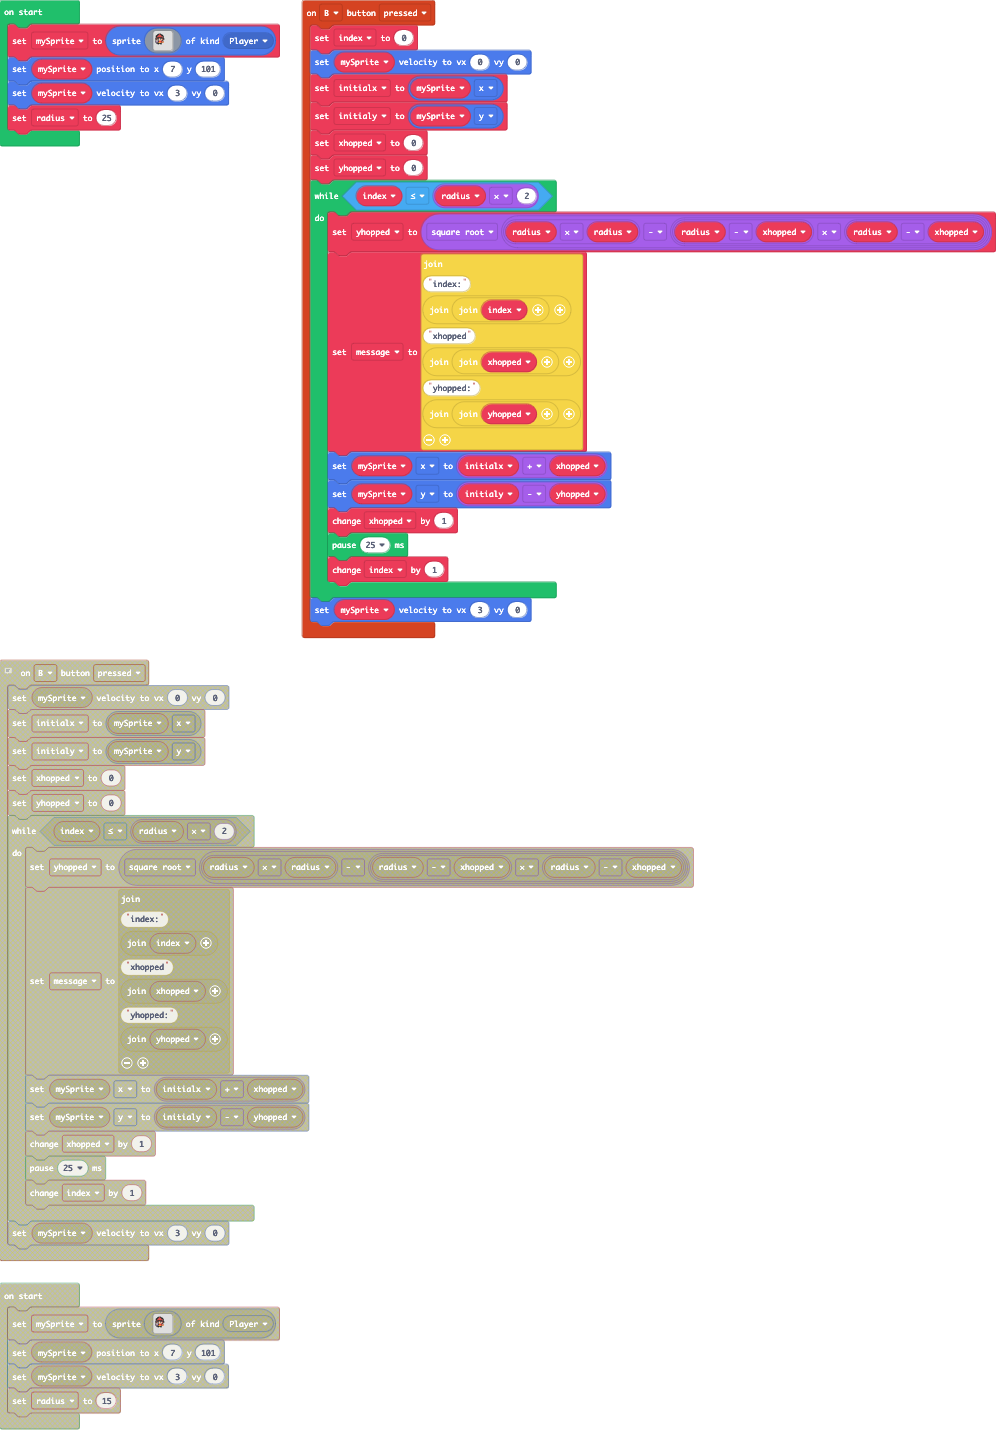
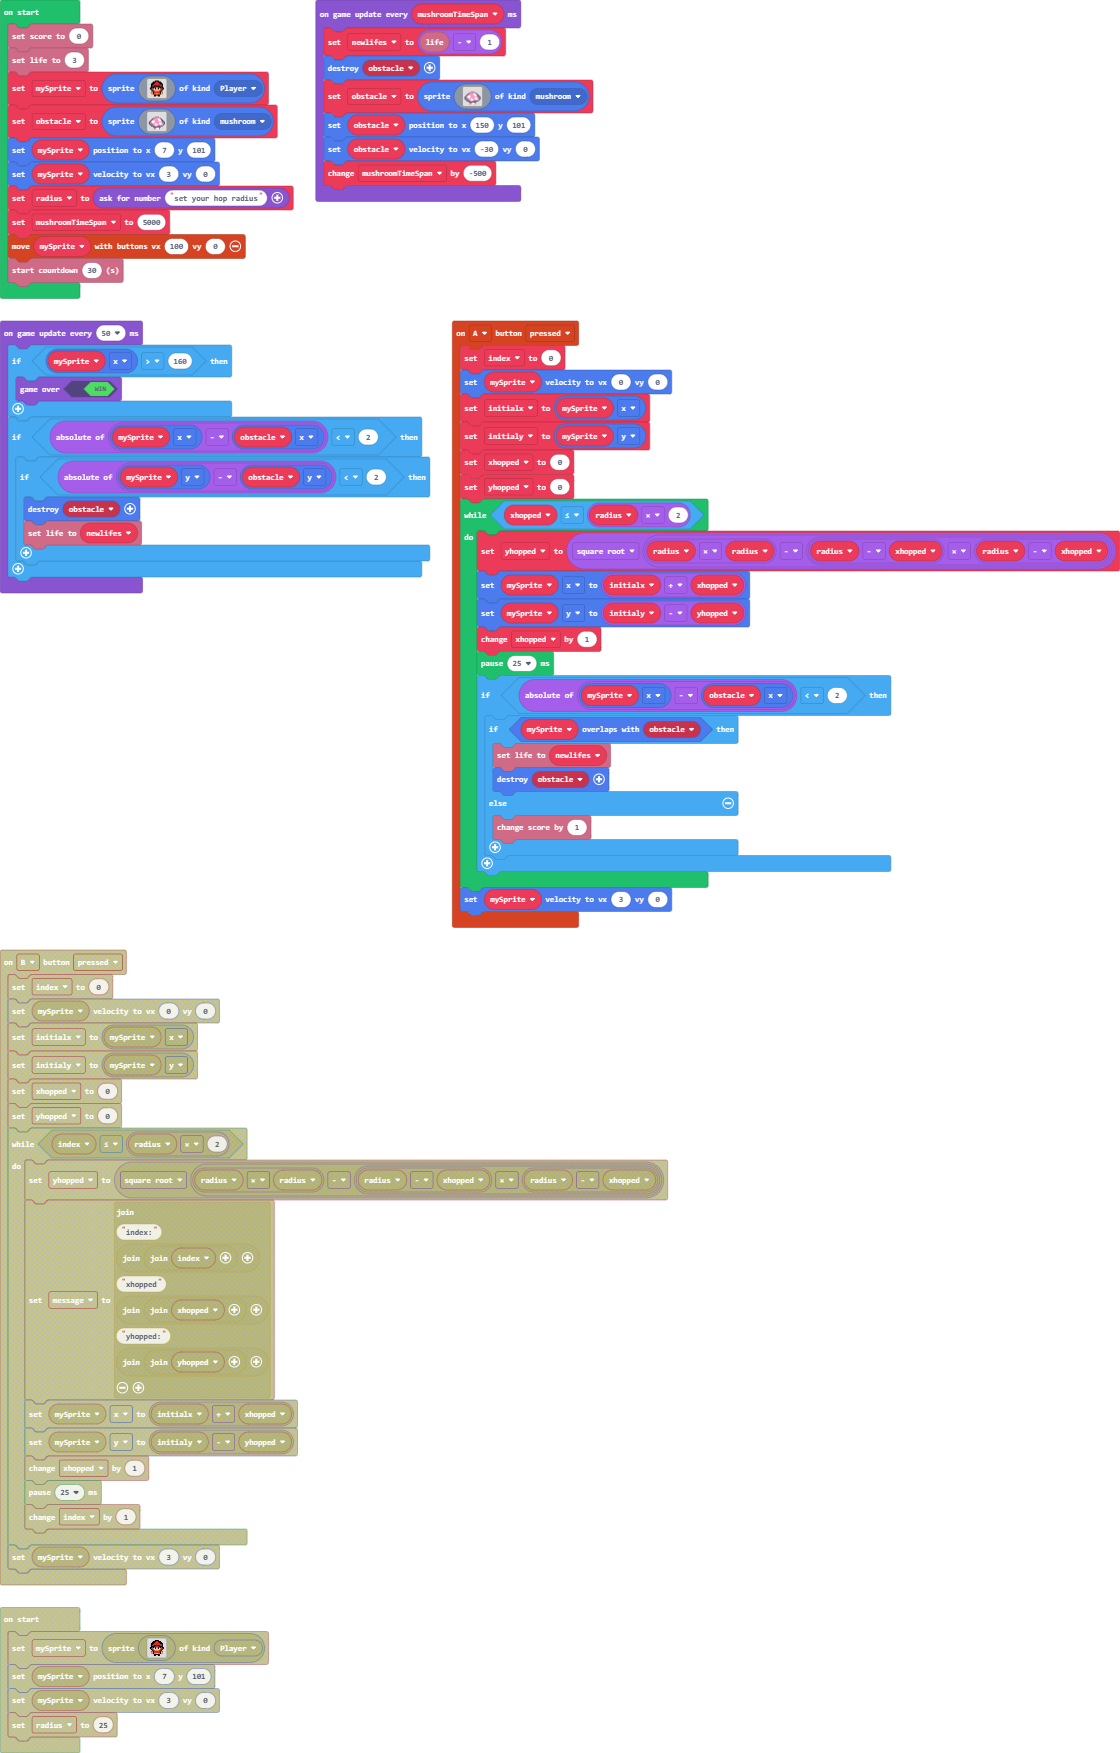
lots of changes to add control, scoring

diff --git a/main.ts b/main.ts
@@ -1,30 +1,99 @@
-controller.B.onEvent(ControllerButtonEvent.Pressed, function () {
+namespace SpriteKind {
+    export const mushroom = SpriteKind.create()
+}
+controller.A.onEvent(ControllerButtonEvent.Pressed, function () {
     index = 0
     mySprite.setVelocity(0, 0)
     initialx = mySprite.x
     initialy = mySprite.y
     xhopped = 0
     yhopped = 0
-    while (index <= radius * 2) {
+    while (xhopped <= radius * 2) {
         yhopped = Math.sqrt(radius * radius - (radius - xhopped) * (radius - xhopped))
-        message = "index:" + ("" + index) + "xhopped" + ("" + xhopped) + "yhopped:" + ("" + yhopped)
         mySprite.x = initialx + xhopped
         mySprite.y = initialy - yhopped
         xhopped += 1
         pause(25)
-        index += 1
+        if (Math.abs(mySprite.x - obstacle.x) < 2) {
+            if (mySprite.overlapsWith(obstacle)) {
+                info.setLife(newlifes)
+                sprites.destroy(obstacle)
+            } else {
+                info.changeScoreBy(1)
+            }
+        }
     }
     mySprite.setVelocity(3, 0)
 })
-let message = ""
+let newlifes = 0
 let yhopped = 0
 let xhopped = 0
 let initialy = 0
 let initialx = 0
 let index = 0
 let radius = 0
+let obstacle: Sprite = null
 let mySprite: Sprite = null
+info.setScore(0)
+info.setLife(3)
 mySprite = sprites.create(assets.image`mysprite`, SpriteKind.Player)
+obstacle = sprites.create(img`
+    . . . . . . . . . . . . . . . . 
+    . . . . . . . . . . . . . . . . 
+    . . . . . . . . . . . . . . . . 
+    . . . . . . b b b b . . . . . . 
+    . . . . b b 3 3 3 3 b b . . . . 
+    . . . c b 3 3 3 3 1 1 b c . . . 
+    . . c b 3 3 3 3 3 1 1 1 b c . . 
+    . c b 1 1 1 3 3 3 3 1 1 3 c c . 
+    c b d 1 1 1 3 3 3 3 3 3 3 b b c 
+    c b b d 1 3 3 3 3 3 1 1 1 b b c 
+    c b b b 3 3 1 1 3 3 1 1 d d b c 
+    . c b b b d d 1 1 3 b d d d c . 
+    . . c c b b d d b b b b c c . . 
+    . . . . c c c c c c c c . . . . 
+    . . . . . b b d 1 1 b . . . . . 
+    . . . . . b d d 1 1 b . . . . . 
+    `, SpriteKind.mushroom)
 mySprite.setPosition(7, 101)
 mySprite.setVelocity(3, 0)
-radius = 25
+radius = game.askForNumber("set your hop radius")
+let mushroomTimeSpan = 5000
+controller.moveSprite(mySprite, 100, 0)
+info.startCountdown(30)
+game.onUpdateInterval(50, function () {
+    if (mySprite.x > 160) {
+        game.gameOver(true)
+    }
+    if (Math.abs(mySprite.x - obstacle.x) < 2) {
+        if (Math.abs(mySprite.y - obstacle.y) < 2) {
+            sprites.destroy(obstacle)
+            info.setLife(newlifes)
+        }
+    }
+})
+game.onUpdateInterval(mushroomTimeSpan, function () {
+    newlifes = info.life() - 1
+    sprites.destroy(obstacle)
+    obstacle = sprites.create(img`
+        . . . . . . . . . . . . . . . . 
+        . . . . . . . . . . . . . . . . 
+        . . . . . . . . . . . . . . . . 
+        . . . . . . b b b b . . . . . . 
+        . . . . b b 3 3 3 3 b b . . . . 
+        . . . c b 3 3 3 3 1 1 b c . . . 
+        . . c b 3 3 3 3 3 1 1 1 b c . . 
+        . c b 1 1 1 3 3 3 3 1 1 3 c c . 
+        c b d 1 1 1 3 3 3 3 3 3 3 b b c 
+        c b b d 1 3 3 3 3 3 1 1 1 b b c 
+        c b b b 3 3 1 1 3 3 1 1 d d b c 
+        . c b b b d d 1 1 3 b d d d c . 
+        . . c c b b d d b b b b c c . . 
+        . . . . c c c c c c c c . . . . 
+        . . . . . b b d 1 1 b . . . . . 
+        . . . . . b d d 1 1 b . . . . . 
+        `, SpriteKind.mushroom)
+    obstacle.setPosition(150, 101)
+    obstacle.setVelocity(-30, 0)
+    mushroomTimeSpan += -500
+})

diff --git a/images.g.ts b/images.g.ts
@@ -5,30 +5,22 @@ namespace myImages {
         switch(helpers.stringTrim(name)) {
             case "?enIdZkhNrz;G5jwC!U}":
             case "mysprite":return img`
-........................
-.....ffff...............
-...fff22fff.............
-..fff2222fff............
-.fffeeeeeefff...........
-.ffe222222eef...........
-.fe2ffffff2ef...........
-.ffffeeeeffff...........
-ffefbf44fbfeff..........
-fee41fddf14eef..........
-.ffffdddddeef...........
-fddddf444eef............
-fbbbbf2222f4e...........
-fbbbbf2222fd4...........
-.fccf45544f44...........
-..ffffffff..............
-....ff..ff..............
-........................
-........................
-........................
-........................
-........................
-........................
-........................
+. . . . . . f f f f . . . . . . 
+. . . . f f f 2 2 f f f . . . . 
+. . . f f f 2 2 2 2 f f f . . . 
+. . f f f e e e e e e f f f . . 
+. . f f e 2 2 2 2 2 2 e e f . . 
+. . f e 2 f f f f f f 2 e f . . 
+. . f f f f e e e e f f f f . . 
+. f f e f b f 4 4 f b f e f f . 
+. f e e 4 1 f d d f 1 4 e e f . 
+. . f e e d d d d d d e e f . . 
+. . . f e e 4 4 4 4 e e f . . . 
+. . e 4 f 2 2 2 2 2 2 f 4 e . . 
+. . 4 d f 2 2 2 2 2 2 f d 4 . . 
+. . 4 4 f 4 4 5 5 4 4 f 4 4 . . 
+. . . . . f f f f f f . . . . . 
+. . . . . f f . . f f . . . . . 
 `;
         }
         return null;

diff --git a/main.py b/main.py
@@ -1,33 +1,81 @@
+@namespace
+class SpriteKind:
+    mushroom = SpriteKind.create()
+
 def on_b_pressed():
-    global index,initialx, initialy, xhopped, yhopped, message, index
+    global index, initialx, initialy, xhopped, yhopped
     index = 0
     mySprite.set_velocity(0, 0)
     initialx = mySprite.x
     initialy = mySprite.y
     xhopped = 0
     yhopped = 0
-    while index <= radius * 2:
+    while xhopped <= radius * 2:
         yhopped = Math.sqrt(radius * radius - (radius - xhopped) * (radius - xhopped))
-        message = "index:" + ("" + str(index)) + "xhopped" + ("" + str(xhopped)) + "yhopped:" + ("" + str(yhopped))
         mySprite.x = initialx + xhopped
         mySprite.y = initialy - yhopped
         xhopped += 1
+        if abs(mySprite.x - obstacle.x) < 2:
+            if mySprite.overlaps_with(obstacle):
+                info.change_life_by(-1)
+                sprites.destroy(obstacle)
+            else:
+                info.change_score_by(1)
         pause(25)
-        index += 1
     mySprite.set_velocity(3, 0)
 controller.B.on_event(ControllerButtonEvent.PRESSED, on_b_pressed)
 
-message = ""
-index = 0
+newlifes = 0
+obstacle: Sprite = None
 yhopped = 0
 xhopped = 0
 initialy = 0
 initialx = 0
+index = 0
 radius = 0
 mySprite: Sprite = None
+info.set_score(0)
+info.set_life(3)
 mySprite = sprites.create(assets.image("""
     mysprite
 """), SpriteKind.player)
 mySprite.set_position(7, 101)
 mySprite.set_velocity(3, 0)
-radius = 15
+radius = 25
+controller.move_sprite(mySprite, 100, 0)
+
+def on_update_interval():
+    if mySprite.x > 160:
+        game.game_over(True)
+    if abs(mySprite.x - obstacle.x) < 2:
+        if abs(mySprite.y - obstacle.y) < 2:
+            sprites.destroy(obstacle)
+            info.set_life(newlifes)
+game.on_update_interval(50, on_update_interval)
+
+def on_update_interval2():
+    global newlifes, obstacle
+    newlifes = info.life() - 1
+    sprites.destroy(obstacle)
+    obstacle = sprites.create(img("""
+            . . . . . . . . . . . . . . . . 
+                    . . . . . . . . . . . . . . . . 
+                    . . . . . . . . . . . . . . . . 
+                    . . . . . . b b b b . . . . . . 
+                    . . . . b b 3 3 3 3 b b . . . . 
+                    . . . c b 3 3 3 3 1 1 b c . . . 
+                    . . c b 3 3 3 3 3 1 1 1 b c . . 
+                    . c b 1 1 1 3 3 3 3 1 1 3 c c . 
+                    c b d 1 1 1 3 3 3 3 3 3 3 b b c 
+                    c b b d 1 3 3 3 3 3 1 1 1 b b c 
+                    c b b b 3 3 1 1 3 3 1 1 d d b c 
+                    . c b b b d d 1 1 3 b d d d c . 
+                    . . c c b b d d b b b b c c . . 
+                    . . . . c c c c c c c c . . . . 
+                    . . . . . b b d 1 1 b . . . . . 
+                    . . . . . b d d 1 1 b . . . . .
+        """),
+        SpriteKind.mushroom)
+    obstacle.set_position(150, 101)
+    obstacle.set_velocity(-30, 0)
+game.on_update_interval(5500, on_update_interval2)
